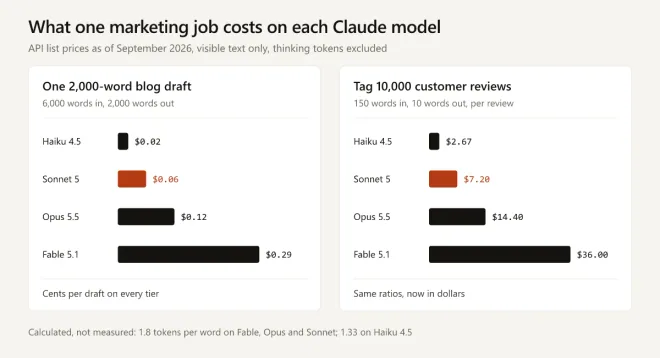
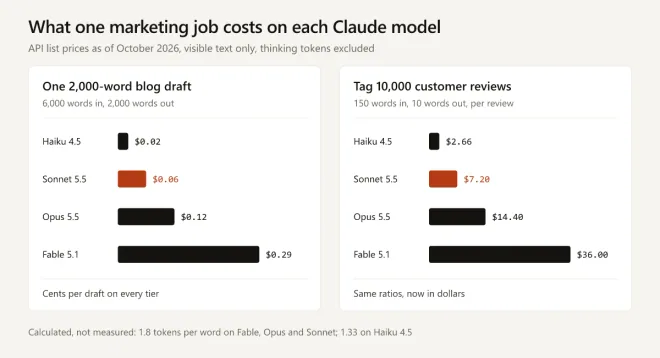
Update Claude Sonnet vs Opus for Sonnet 5.5
Sonnet 5.5 (released 28 September 2026) replaces Sonnet 5 as the current
Sonnet across the cost table, routing rule, FAQs, Claude Code settings and
both diagrams; Sonnet 5 is now noted as a legacy model. The Haiku tagging
figure is corrected to $2.66. The matching LinkedIn draft and the link
sentence in claude-research-vs-web-search follow the update.

Changed region(s): [[0.1818, 0.1229, 0.6061, 0.1536], [0.5758, 0.4916, 0.6061, 0.5223], [0.1212, 0.4916, 0.1515, 0.5223]]

diff --git a/src/content/blog/claude-sonnet-vs-opus.md b/src/content/blog/claude-sonnet-vs-opus.md
@@ -1,44 +1,45 @@
 ---
 title: "Claude Sonnet vs Opus vs Haiku: Costs and When to Use Each"
-description: "A 2,000-word blog draft costs about 6 cents on Sonnet 5 and 12 on Opus 5.5. Compare Claude Sonnet vs Opus vs Haiku on price and specs, with a rule for picking one."
+description: "A 2,000-word draft costs about 6 cents on Sonnet 5.5 and 12 on Opus 5.5. Compare Claude Sonnet vs Opus vs Haiku on price and specs, with a rule for picking one."
 publishDate: 2026-09-26
+updatedDate: 2026-10-03
 category: [AI, Tools]
 img: /assets/stock-4.webp
 img_alt: "Renaissance-style study of an orrery and geometric instruments on a scholar's table, a red thread tracing an orbit"
 faqs:
   - q: "Is Claude Opus better than Sonnet?"
-    a: "Opus 5.5 is the more capable model and Anthropic's recommended starting point for most workloads. As of September 2026 it costs twice as much per uncached token as Sonnet 5 ($4 and $20 against $2 and $10 per million input and output tokens, with cache reads at $0.20 on both), yet on multi-step agentic work it can cost less per finished job. On single-pass writing, thinking at each model's default effort can move the real gap, so set effort explicitly and price a sample of your own jobs."
+    a: "Opus 5.5 is the more capable model and Anthropic's recommended starting point for most workloads, and Anthropic says it remains clearly stronger than Sonnet 5.5 at complex, open-ended work. As of October 2026 it costs twice as much per uncached token as Sonnet 5.5 ($4 and $20 against $2 and $10 per million input and output tokens, with cache reads at $0.20 on both). Per finished job the gap can move either way, since Opus 5.5 cost less per solved coding task than Sonnet 5 in Anthropic's runs while Anthropic says Sonnet 5.5 at lower effort costs less per task than Opus 5.5, so set effort explicitly and price a sample of your own jobs."
   - q: "What is the difference between Claude Haiku and Sonnet?"
-    a: "Haiku 4.5 is the lowest-priced current Claude model at $1 and $5 per million input and output tokens, with a 200K context window and a February 2025 reliable knowledge cutoff. Sonnet 5 costs $2 and $10, has a 1M context window and a January 2026 cutoff. Anthropic positions Haiku for high-volume work with checkable outputs rather than long agent loops."
+    a: "Haiku 4.5 is the lowest-priced current Claude model at $1 and $5 per million input and output tokens, with a 200K context window and a February 2025 reliable knowledge cutoff. Sonnet 5.5 costs $2 and $10, has a 1M context window and a June 2026 reliable knowledge cutoff. Anthropic positions Haiku for high-volume work with checkable outputs rather than long agent loops."
   - q: "Which Claude model is best for writing?"
-    a: "For drafts, emails and rewrites, start with Sonnet 5: Anthropic's model selection matrix lists content creation among its example uses, and Anthropic's models overview rates its latency Fast against Opus 5.5's Moderate. The price gap on a one-off 2,000-word draft is about six cents, so move a draft to Opus 5.5 when it carries figures, citations or a synthesis of many sources, or when Opus drafts need less of your editing."
+    a: "For drafts, emails and rewrites, start with Sonnet 5.5: Anthropic's model selection matrix lists content creation among its example uses, Anthropic's models overview rates its latency Fast against Opus 5.5's Moderate, and its launch post says it writes more clearly than Anthropic's previous generation of models. The price gap on a one-off 2,000-word draft is about six cents, so move a draft to Opus 5.5 when it carries figures, citations or a synthesis of many sources, or when Opus drafts need less of your editing."
   - q: "Which Claude model does Claude Code use by default?"
-    a: "As of September 2026, the default model in Claude Code is Opus 5.5 on Pro, Max, Team, Enterprise and Anthropic API accounts, from version 2.1.280 onward. Switch in a session with /model sonnet, /model haiku or /model fable, or at launch with claude --model followed by the alias."
+    a: "As of October 2026, the default model in Claude Code is Opus 5.5 on Pro, Max, Team, Enterprise and Anthropic API accounts, from version 2.1.280 onward. Switch in a session with /model sonnet (Sonnet 5.5 on the Anthropic API from version 2.1.284), /model haiku or /model fable, or at launch with claude --model followed by the alias."
   - q: "What is the best Claude model?"
-    a: "Claude Fable 5.1 is the most capable model Anthropic offers to all customers, but Anthropic recommends starting most workloads on Opus 5.5 and moving to Fable only when Opus at xhigh or max effort still falls short on demanding work. For marketing work the best Claude model depends on volume and steps: Haiku 4.5 for bulk jobs you can spot-check, Sonnet 5 for single-pass writing and repeated jobs, and Opus 5.5 for multi-step or figure-heavy work."
+    a: "Claude Fable 5.1 is the most capable model Anthropic offers to all customers, but Anthropic recommends starting most workloads on Opus 5.5 and moving to Fable only when Opus at xhigh or max effort still falls short on demanding work. For marketing work the best Claude model depends on volume and steps: Haiku 4.5 for bulk jobs you can spot-check, Sonnet 5.5 for single-pass writing and repeated jobs, and Opus 5.5 for multi-step or figure-heavy work."
 ---
 
-Tagging 10,000 customer reviews by theme costs about **$2.67 on Claude Haiku 4.5, $7.20 on Sonnet 5, $14.40 on Opus 5.5 and $36.00 on Fable 5.1** at Anthropic's API list prices as of September 2026, with 150 words in and 10 out per review at about 1.8 tokens per word (1.33 on Haiku's older tokenizer). One 2,000-word blog draft costs about 6 cents on Sonnet and 12 cents on Opus, so for a single draft the Claude Sonnet vs Opus price gap is six cents.
+Tagging 10,000 customer reviews by theme costs about **$2.66 on Claude Haiku 4.5, $7.20 on Sonnet 5.5, $14.40 on Opus 5.5 and $36.00 on Fable 5.1** at Anthropic's API list prices as of October 2026, with 150 words in and 10 out per review at about 1.8 tokens per word (1.33 on Haiku's older tokenizer). One 2,000-word blog draft costs about 6 cents on Sonnet and 12 cents on Opus, so for a single draft the Claude Sonnet vs Opus price gap is six cents.
 
 Those figures are my arithmetic from Anthropic's [per-token pricing](https://platform.claude.com/docs/en/about-claude/pricing), not measured runs, and they leave out thinking tokens. The cost table further down shows the working for every job.
 
-So the choice turns on two things a price list does not show: how many times a job runs, and how many steps each run takes. Volume multiplies the 2x gap between the tiers. Steps can reverse it: in Anthropic's internal runs of a coding benchmark (a SWE-bench Pro subset), Opus 5.5 came out cheaper per solved task than Sonnet 5.
+So the choice turns on two things a price list does not show: how many times a job runs, and how many steps each run takes. Volume multiplies the 2x gap between the tiers. Steps can reverse it: in Anthropic's internal runs of a coding benchmark (a SWE-bench Pro subset), Opus 5.5 came out cheaper per solved task than Sonnet 5, the model Sonnet 5.5 replaced. Anthropic's cost guide has no Sonnet 5.5 figure for that subset, and the [Sonnet 5.5 launch post](https://www.anthropic.com/claude-sonnet-5-5) says Sonnet 5.5, run at lower effort settings, costs less per task than Opus 5.5.
 
-My routing rule for marketing work follows from those two facts, and it departs from Anthropic's Opus-first default for single-pass writing and for jobs repeated at volume:
+My routing rule for marketing work follows from volume and steps, and it departs from Anthropic's Opus-first default for single-pass writing and for jobs repeated at volume:
 
-**The rule:** Send checkable bulk jobs to Haiku 4.5. Run single-pass writing and jobs repeated at volume on Sonnet 5. Move to Opus 5.5 for multi-step jobs or work whose figures and sources must be right. Try Fable 5.1 only when Opus 5.5 at xhigh or max effort falls short.
+**The rule:** Send checkable bulk jobs to Haiku 4.5. Run single-pass writing and jobs repeated at volume on Sonnet 5.5. Move to Opus 5.5 for multi-step jobs or work whose figures and sources must be right. Try Fable 5.1 only when Opus 5.5 at xhigh or max effort falls short.
 
 If you are still choosing between vendors, [Claude vs ChatGPT](/blog/claude-vs-chatgpt/) covers that decision. This page assumes you have picked Claude and now have to pick a model.
 
-## Claude Models Comparison: Sonnet vs Opus vs Haiku (September 2026)
+## Claude Models Comparison: Sonnet vs Opus vs Haiku (October 2026)
 
-Anthropic's [models overview](https://platform.claude.com/docs/en/models/overview) lists four current models, checked on 26 September 2026. MTok means one million tokens.
+Anthropic's [models overview](https://platform.claude.com/docs/en/models/overview) lists four current models, checked on October 3, 2026. Sonnet 5.5, released on September 28, 2026, replaced Sonnet 5 in that lineup, and Sonnet 5 moved to the page's list of legacy models that are still available. MTok means one million tokens.
 
 | Model | Input / output price per MTok | Context window | Best for |
 |---|---|---|---|
 | Claude Fable 5.1 | $10 / $50 | 1M tokens | Hours-long agent runs and deep research, only after Opus falls short |
 | Claude Opus 5.5 | $4 / $20 | 1M tokens | Multi-step agentic work, research synthesis, anything with figures |
-| Claude Sonnet 5 | $2 / $10 | 1M tokens | Single-pass drafting and rewriting, repeated jobs at volume |
+| Claude Sonnet 5.5 | $2 / $10 | 1M tokens | Single-pass drafting and rewriting, repeated jobs at volume |
 | Claude Haiku 4.5 | $1 / $5 | 200K tokens | Bulk tagging, extraction and sorting you can spot-check |
 
 The "best for" column is my routing, built from Anthropic's [model selection matrix](https://platform.claude.com/docs/en/about-claude/models/choosing-a-model), which says "most workloads start with Claude Opus 5.5". The Sonnet vs Opus section below explains where I follow that default and where I peel off from it.
@@ -47,14 +48,14 @@ In the Claude apps, the Free plan covers Sonnet and Haiku while Opus needs a pai
 
 The rest of the spec sheet, from the same overview page:
 
-| | Fable 5.1 | Opus 5.5 | Sonnet 5 | Haiku 4.5 |
+| | Fable 5.1 | Opus 5.5 | Sonnet 5.5 | Haiku 4.5 |
 |---|---|---|---|---|
 | Latency (Anthropic's label) | Slower | Moderate | Fast | Fastest |
-| Reliable knowledge cutoff | Jun 2026 | Jun 2026 | Jan 2026 | Feb 2025 |
+| Reliable knowledge cutoff | Jun 2026 | Jun 2026 | Jun 2026 | Feb 2025 |
 | Max output | 128K tokens | 128K tokens | 128K tokens | 64K tokens |
 | Thinking | Adaptive, always on | Adaptive, always on | Adaptive | Extended (manual) |
-| Default effort | high | medium | high | Not supported |
-| Retirement, not sooner than | Sep 1, 2027 | Sep 22, 2027 | Jun 30, 2027 | Oct 15, 2026 |
+| Default effort (API) | high | medium | high | Not supported |
+| Retirement, not sooner than | Sep 1, 2027 | Sep 22, 2027 | Sep 28, 2027 | Oct 15, 2026 |
 
 The knowledge cutoff row tells you how recent a topic can be before you have to paste in sources. The thinking row decides how far a request can run above its visible-text cost, since thinking tokens are billed as output (next section).
 
@@ -64,8 +65,8 @@ Stage 3 of [the marketer's AI maturity curve](/blog/marketers-ai-maturity-curve/
 
 The assumptions, so you can swap in your own:
 
-- **Words to tokens.** Anthropic's models overview ([markdown version](https://platform.claude.com/docs/en/models/overview.md)) says 1M tokens is roughly 555,000 words on the current tokenizer, introduced with Claude Opus 4.7, while models before it fit about 750,000 words. That works out to about 1.8 tokens per word and 1.33 tokens per word. The pricing page says Claude 4.7 and later models use the newer tokenizer and Claude Sonnet 4.6 and earlier use the previous one, so Fable 5.1, Opus 5.5 and Sonnet 5 take the 1.8 figure and Haiku 4.5 takes 1.33.
-- **Visible text only.** Anthropic's [thinking documentation](https://platform.claude.com/docs/en/build-with-claude/thinking) says reasoning tokens "are billed as output tokens, even when the thinking text isn't returned to you". None are counted here, on any model, so treat every figure as a floor. Sonnet 5 thinks by default unless you pass `thinking: {type: "disabled"}` ([what's new in Sonnet 5](https://platform.claude.com/docs/en/models/sonnet-5/whats-new-sonnet-5)), while Opus 5.5 returns an error if you try ([what's new in Opus 5.5](https://platform.claude.com/docs/en/models/opus-5-5/whats-new-opus-5-5)) and Fable 5.1 always thinks.
+- **Words to tokens.** Anthropic's models overview ([markdown version](https://platform.claude.com/docs/en/models/overview.md)) says 1M tokens is roughly 555,000 words on the current tokenizer, introduced with Claude Opus 4.7, while models before it fit about 750,000 words. That works out to about 1.8 tokens per word and 1.33 tokens per word. The pricing page says Claude 4.7 and later models use the newer tokenizer and Claude Sonnet 4.6 and earlier use the previous one, so Fable 5.1, Opus 5.5 and Sonnet 5.5 take the 1.8 figure and Haiku 4.5 takes 1.33. Anthropic's [what's new in Sonnet 5.5](https://platform.claude.com/docs/en/models/sonnet-5-5/whats-new-sonnet-5-5) page says Sonnet 5.5's tokenizer "is the same as Claude Sonnet 5's".
+- **Visible text only.** Anthropic's [thinking documentation](https://platform.claude.com/docs/en/build-with-claude/thinking) says reasoning tokens "are billed as output tokens, even when the thinking text isn't returned to you". None are counted here, on any model, so treat every figure as a floor. Sonnet 5.5 thinks by default and, per the same what's new page, returns a 400 error for `thinking: {type: "disabled"}`; its lowest setting, `thinking: {type: "between_tools"}`, is accepted at `high` effort or below and returns only text on a request that uses no tools. Opus 5.5 returns an error if you try to turn thinking off ([what's new in Opus 5.5](https://platform.claude.com/docs/en/models/opus-5-5/whats-new-opus-5-5)) and Fable 5.1 always thinks.
 - **List prices.** No prompt caching, no Batch API discount, global routing. The pricing page adds a 1.1x multiplier for US-only inference on Claude 4.6 and later models.
 - **No long-context premium.** The pricing page says Claude 4.6 and later models bill the full 1M-token window at standard rates, so the large synthesis job pays the same per token as the small draft.
 
@@ -80,27 +81,27 @@ The jobs:
 
 What each one costs, calculated from Anthropic's per-token prices:
 
-| Job | Haiku 4.5 | Sonnet 5 | Opus 5.5 | Fable 5.1 |
+| Job | Haiku 4.5 | Sonnet 5.5 | Opus 5.5 | Fable 5.1 |
 |---|---|---|---|---|
 | One 2,000-word blog draft | $0.02 | $0.06 | $0.12 | $0.29 |
 | Research synthesis of 20 transcripts | $0.18 | $0.48 | $0.95 | $2.39 |
 | Rewrite 1,000 product descriptions | $1.20 | $3.24 | $6.48 | $16.20 |
-| Tag 10,000 customer reviews | $2.67 | $7.20 | $14.40 | $36.00 |
+| Tag 10,000 customer reviews | $2.66 | $7.20 | $14.40 | $36.00 |
 
-The blog draft on Sonnet 5, worked through: 6,000 words x 1.8 = 10,800 input tokens, at $2 per million = $0.0216. Then 2,000 words x 1.8 = 3,600 output tokens, at $10 per million = $0.036. The total is $0.0576, which rounds to $0.06, and every other cell follows the same two lines with that model's prices and tokens-per-word figure.
+The blog draft on Sonnet 5.5, worked through: 6,000 words x 1.8 = 10,800 input tokens, at $2 per million = $0.0216. Then 2,000 words x 1.8 = 3,600 output tokens, at $10 per million = $0.036. The total is $0.0576, which rounds to $0.06, and every other cell follows the same two lines with that model's prices and tokens-per-word figure.
 
-<img src="/assets/blog/claude-sonnet-vs-opus/cost-per-job.webp" alt="Bar chart comparing the cost of one 2,000-word blog draft and of tagging 10,000 customer reviews on Claude Haiku 4.5, Sonnet 5, Opus 5.5 and Fable 5.1 at September 2026 list prices" title="What one marketing job costs on each Claude model" width="1200" height="651" loading="lazy" decoding="async" />
+<img src="/assets/blog/claude-sonnet-vs-opus/cost-per-job.webp" alt="Bar chart comparing the cost of one 2,000-word blog draft and of tagging 10,000 customer reviews on Claude Haiku 4.5, Sonnet 5.5, Opus 5.5 and Fable 5.1 at October 2026 list prices" title="What one marketing job costs on each Claude model" width="1200" height="651" loading="lazy" decoding="async" />
 
 What the table shows:
 
-- **Opus 5.5 costs exactly twice Sonnet 5 on every row.** The per-token prices are 2x apart and the two models share a tokenizer, so without caching the ratio never moves. Only the size of the job changes what 2x means in dollars.
+- **Opus 5.5 costs exactly twice Sonnet 5.5 on every row.** The per-token prices are 2x apart and the two models share a tokenizer, so without caching the ratio never moves. Only the size of the job changes what 2x means in dollars.
 - **Haiku 4.5 lands at about 37% of Sonnet's cost**, lower than its 50% sticker ratio. Its older tokenizer turns the same words into fewer tokens.
 - **Fable 5.1 costs 2.5x Opus 5.5** on every row of this table.
-- **Bulk jobs can run at half price.** The Batch API takes 50% off both input and output tokens in exchange for results within 24 hours, so the review-tagging job on Sonnet 5 drops to $3.60.
+- **Bulk jobs can run at half price.** The Batch API takes 50% off both input and output tokens in exchange for results within 24 hours, so the review-tagging job on Sonnet 5.5 drops to $3.60.
 
 ### Cheaper Moves Than Switching Models
 
-Anthropic's [cost and intelligence guide](https://platform.claude.com/docs/en/about-claude/models/optimizing-for-cost-and-intelligence) sorts cost levers into "free wins" that cut spend without touching quality and tradeoffs such as model choice. Caching pays only when a long prefix repeats across requests, such as an agent loop or a long style guide sent with every draft. The minimum cacheable prompt is 1,024 tokens on Sonnet 5, 512 on Opus 5.5 and 4,096 on Haiku 4.5 ([prompt caching docs](https://platform.claude.com/docs/en/build-with-claude/prompt-caching)), so the 100-word tagging instructions in the table above are too short to cache.
+Anthropic's [cost and intelligence guide](https://platform.claude.com/docs/en/about-claude/models/optimizing-for-cost-and-intelligence) sorts cost levers into "free wins" that cut spend without touching quality and tradeoffs such as model choice. Caching pays only when a long prefix repeats across requests, such as an agent loop or a long style guide sent with every draft. The minimum cacheable prompt is 512 tokens on Sonnet 5.5 and Opus 5.5 and 4,096 on Haiku 4.5 ([prompt caching docs](https://platform.claude.com/docs/en/build-with-claude/prompt-caching)), so the 100-word tagging instructions in the table above, about 180 tokens on Sonnet 5.5 (133 on Haiku 4.5), are too short to cache.
 
 1. **Prompt caching**, where the prefix qualifies. Cache reads cost 10% of the base input price (5% on Opus 5.5, 2.5% on Fable 5.1). In Anthropic's measured agent runs, the guide says caching "cut agent-loop cost by a factor of 2.7 to 5.3" and is "worth more than most model-choice decisions".
 2. **Batch processing** for anything no one is waiting on, at 50% off.
@@ -108,63 +109,67 @@ Anthropic's [cost and intelligence guide](https://platform.claude.com/docs/en/ab
 
 ## Claude Sonnet vs Opus: Where the 2x Price Gap Matters
 
-Per base input and output token, the Claude Sonnet vs Opus comparison is fixed: Opus 5.5 at $4 / $20 against Sonnet 5 at $2 / $10. Cache reads are the exception: Opus 5.5 reads its cache at 5% of its input price, so both models pay $0.20 per MTok for a cache hit.
+Per base input and output token, the Claude Sonnet vs Opus comparison is fixed: Opus 5.5 at $4 / $20 against Sonnet 5.5 at $2 / $10. Cache reads are the exception: Opus 5.5 reads its cache at 5% of its input price, so both models pay $0.20 per MTok for a cache hit.
 
-Sonnet's rate is also settled. The pricing page says the $2 / $10 rate, announced as introductory pricing through August 31, 2026, "is now the standard price", and the scheduled rise to $3 / $15 "will not occur".
+Sonnet's rate is also settled. Anthropic's what's new in Sonnet 5.5 page says the model "has the same prices as Claude Sonnet 5, including prompt caching and batch processing rates", and the pricing page says Sonnet 5's $2 / $10 rate, first announced as introductory pricing through August 31, 2026, "is now the standard price", while the scheduled rise to $3 / $15 "will not occur".
 
 Per finished job, the comparison moves. Anthropic's cost guide tells readers to "compare on cost per completed task, not per token", and publishes its own measurements:
 
 | Benchmark (Anthropic's internal runs) | Model and effort | Score | Cost |
 |---|---|---|---|
-| SWE-bench Pro subset (coding) | Sonnet 5, default | 77.4% | $0.84 per solved task |
+| SWE-bench Pro subset (coding) | Sonnet 5 (previous Sonnet), default | 77.4% | $0.84 per solved task |
 | SWE-bench Pro subset (coding) | Opus 5.5, default (medium) | 92.8% | $0.22 per solved task |
 | SWE-bench Pro subset (coding) | Opus 5.5, low | 87.4% | $0.12 per solved task |
 | SWE-bench Pro subset (coding) | Fable 5.1, default | 92.3% | $1.19 per solved task |
 | SWE-bench Pro subset (coding) | Fable 5.1, low | 88.6% | $0.54 per solved task |
-| DeepResearch Bench II (research) | Sonnet 5 | 56% | $1.20 per task |
+| DeepResearch Bench II (research) | Sonnet 5 (previous Sonnet) | 56% | $1.20 per task |
 | DeepResearch Bench II (research) | Fable 5.1, low | 66% | $4.66 per task |
 
 Anthropic labels these internal results "directional, not guarantees". On the coding benchmark, Opus 5.5, at twice Sonnet 5's token price, cost about a quarter as much per solved task ($0.22 against $0.84), while Fable 5.1 at its default cost more than both ($1.19). Anthropic plots all five coding rows on one chart, with a footnote on problem sets: Sonnet 5 and Fable 5.1 at low effort ran on a 482-problem subset, and Opus 5.5 and Fable 5.1 at its default ran on 478 of those problems. The guide's explanation is that "a more capable model finishes a task with less work: fewer turns, less searching, less re-reading of its own context, and less backtracking."
 
-Cache pricing also shrinks the gap in loops like these. Anthropic priced each request's earlier context in those runs as a cache read, which costs $0.20 per MTok on both Opus 5.5 and Sonnet 5, and the guide says cache reads are "routinely the largest single component of task cost" across its measured runs.
+Cache pricing also shrinks the gap in loops like these. Anthropic priced each request's earlier context in the cost guide's runs as a cache read, which costs $0.20 per MTok on both Opus 5.5 and Sonnet 5, and the guide says cache reads are "routinely the largest single component of task cost" across its measured runs.
 
-A single-pass draft is one request with no turns to cut, so the per-token table above is the starting estimate for it. Sonnet 5 is half the price for the visible text, and the thinking on top depends on the effort each model runs at (Opus 5.5 defaults to medium, Sonnet 5 to high), so set effort explicitly on both before you compare, or turn thinking off on Sonnet 5 for a short rewrite job.
+For Sonnet 5.5, the per-job evidence so far is Anthropic's launch post, which plots cost per task on four other benchmarks (Terminal-Bench 4.0, FrontierCode, CursorBench and AA-Briefcase) and says Sonnet 5.5 "complements Opus 5.5 best when running at lower effort settings, where it costs less per task. At higher settings, it can perform comparably at a similar cost." The same post says "Opus 5.5 remains clearly stronger at complex, open-ended work requiring sustained judgment." So price your own loop on both models before assuming Opus 5.5 costs less per finished job.
+
+A single-pass draft is one request with no turns to cut, so the per-token table above is the starting estimate for it. Sonnet 5.5 is half the price for the visible text, and the thinking on top depends on the effort each model runs at (on the API, Opus 5.5 defaults to medium and Sonnet 5.5 to high), so set effort explicitly on both before you compare, or send `thinking: {type: "between_tools"}` on Sonnet 5.5 for a short rewrite job.
 
 A job that loops (an agent building a script, a research run that reads, searches and re-reads) is where Opus 5.5 can win back its price. On research the cost can climb instead: Fable 5.1 at low effort scored 10 points above Sonnet 5 on DeepResearch Bench II at about four times the cost per task, which the guide puts down to Fable running "a longer research loop over a larger context".
 
 ### Claude Opus vs Sonnet for Writing
 
-Anthropic's selection matrix lists "content creation" among Sonnet 5's example uses, next to code generation and data analysis, and the spec table above gives Sonnet 5 a "Fast" latency label against Opus 5.5's "Moderate". Opus 5.5's matrix examples are multi-hour coding agents, large refactors and computer use.
+Anthropic's selection matrix lists "content creation" among Sonnet 5.5's example uses, next to code generation, data analysis, visual understanding and agentic tool use, and the spec table above gives Sonnet 5.5 a "Fast" latency label against Opus 5.5's "Moderate". Opus 5.5's matrix examples are multi-hour coding agents, large refactors, complex systems engineering, vision-heavy workflows and computer use.
 
 What Anthropic does claim for Opus 5.5 on written work sits in its [prompting guide](https://platform.claude.com/docs/en/build-with-claude/prompt-engineering/prompting-claude-opus-5-5): the model "is much less likely to state an incorrect figure or cite the wrong source", and "the spreadsheets, slides, and documents it produces need less editing before you share them." The guide describes differences from Opus 5 and never mentions Sonnet, so read both claims as the direction Opus moved rather than a ranking of the two tiers.
 
+The Sonnet 5.5 launch post makes a matching claim for the cheaper tier: "Like Opus 5.5, Sonnet 5.5 writes more clearly than our previous generation of models". Anthropic's [Sonnet page](https://www.anthropic.com/claude/sonnet) adds that Sonnet 5.5's "drafts need less cleanup".
+
 One marketer-run test worth reading is Lisa Peyton's [content-marketer showdown](https://lisapeyton.com/claude-4-1-opus-vs-claude-4-5-sonnet-a-real-world-showdown-for-content-marketers/), updated June 2026, which ran one newsletter prompt and the same sources through Opus 4.8, 4.7, 4.6 and Sonnet 4.6. She found that Sonnet 4.6 "wrote fluently and quickly, and for my particular voice rules it needed the most editing", and her verdict was that "there isn't a single winner right now".
 
-Every model she tested predates Sonnet 5 and Opus 5.5, and it is one prompt from one writer, so treat it as a named example of the method rather than a result for today's lineup.
+Every model she tested predates Sonnet 5.5 and Opus 5.5, and it is one prompt from one writer, so treat it as a named example of the method rather than a result for today's lineup.
 
 My writing rule from all of that:
 
-- Draft blog posts, emails and landing page copy on Sonnet 5. The price is not the reason for a one-off draft, since the gap is six cents: if Opus 5.5 drafts need less editing against your own voice rules, draft there instead.
+- Draft blog posts, emails and landing page copy on Sonnet 5.5. The price is not the reason for a one-off draft, since the gap is six cents: if Opus 5.5 drafts need less editing against your own voice rules, draft there instead.
 - Move a draft to Opus 5.5 when it carries figures, citations or a synthesis of many sources, since wrong figures and wrong sources are the failure Anthropic says Opus 5.5 improved on.
-- Keep writing jobs that repeat at volume on Sonnet 5. A run of 1,000 product descriptions costs $3.24 there against $6.48 on Opus 5.5, before the batch discount.
+- Keep writing jobs that repeat at volume on Sonnet 5.5. A run of 1,000 product descriptions costs $3.24 there against $6.48 on Opus 5.5, before the batch discount.
 - Run a voice pass yourself on either tier. No model knows your house rules until you write them down and hand them over.
 
-One prompt habit to revisit on Opus 5.5 is the chain-of-thought pattern in my [ChatGPT prompts for marketing](/blog/chatgpt-prompts-for-marketing/) templates. The prompting guide's section on safeguard refusals says requests that push the model to reproduce its internal reasoning in the response text "can be declined", and tells you to remove prompt instructions that ask it to write out its reasoning. Keep the steps that produce something you want to read, such as a topic list, and cut the ones that only ask it to show its work.
+One prompt habit to revisit on Opus 5.5 and Sonnet 5.5 is the chain-of-thought pattern in my [ChatGPT prompts for marketing](/blog/chatgpt-prompts-for-marketing/) templates. The Opus 5.5 prompting guide's section on safeguard refusals says requests that push the model to reproduce its internal reasoning in the response text "may be declined", and the [Sonnet 5.5 prompting guide](https://platform.claude.com/docs/en/build-with-claude/prompt-engineering/prompting-claude-sonnet-5-5) says instructions to include reasoning in the response "invite `reasoning_extraction` declines". Both guides tell you to remove prompt instructions that ask the model to write out its reasoning. Keep the steps that produce something you want to read, such as a topic list, and cut the ones that only ask it to show its work.
 
 ## Claude Haiku vs Sonnet: When the Cheapest Model Is Enough
 
 The Haiku vs Sonnet decision has more spec differences than the Sonnet vs Opus one, because Haiku 4.5 predates the other three models and their newer tokenizer:
 
-| | Haiku 4.5 | Sonnet 5 |
+| | Haiku 4.5 | Sonnet 5.5 |
 |---|---|---|
 | Price per MTok (input / output) | $1 / $5 | $2 / $10 |
 | Cost of the same text | About 37% of Sonnet, older tokenizer | Baseline |
 | Context window | 200K tokens | 1M tokens |
 | Max output | 64K tokens | 128K tokens |
-| Reliable knowledge cutoff | Feb 2025 | Jan 2026 |
+| Reliable knowledge cutoff | Feb 2025 | Jun 2026 |
 | Thinking | Extended thinking, set manually | Adaptive, on by default |
-| Effort parameter | Not supported | Supported, default high |
-| Anthropic's example uses | Real-time apps, high-volume processing, sub-agent tasks | Code generation, data analysis, content creation |
+| Effort parameter | Not supported | Supported, default high on the API (medium in Claude Code and the Claude apps) |
+| Anthropic's example uses | Real-time apps, high-volume processing, sub-agent tasks | Code generation, data analysis, content creation, visual understanding, agentic tool use |
 
 Anthropic's cost guide draws the line on where Haiku stops. On the GPQA Diamond question set, Haiku 4.5 answered at about a fifth of Opus 5.5's cost per question, with 63% accuracy against 92%, and "fell much further behind on long coding tasks". The guide's summary: "It fits high-volume work with checkable outputs, not long agentic loops."
 
@@ -175,9 +180,9 @@ Marketing jobs where a person can spot-check a sample against a rule suit Haiku 
 - Normalising messy job titles in a lead list
 - First-pass sorting of inbound requests before a person reads them
 
-Keep Haiku away from anything that depends on events after February 2025 without sources in the prompt, from long agent loops, and from final copy. If a hand-checked sample of 50 Haiku outputs shows more errors than you will accept, rerun the same sample on Sonnet 5 before changing the whole job.
+Keep Haiku away from anything that depends on events after February 2025 without sources in the prompt, from long agent loops, and from final copy. If a hand-checked sample of 50 Haiku outputs shows more errors than you will accept, rerun the same sample on Sonnet 5.5 before changing the whole job.
 
-Haiku 4.5 is listed as active on Anthropic's [model deprecations page](https://platform.claude.com/docs/en/about-claude/model-deprecations), with retirement "not sooner than October 15, 2026", and Anthropic commits to at least 60 days' notice before retiring a publicly released model. Pin the model ID in any recurring job and check that page before you build on it.
+Haiku 4.5 is listed as active on Anthropic's [model deprecations page](https://platform.claude.com/docs/en/about-claude/model-deprecations), with retirement "not sooner than October 15, 2026", and Anthropic commits to at least 60 days' notice before retiring a publicly released model. Pin the model ID in any recurring job and check that page before you build on it. The Sonnet 5.5 launch post also says Claude Haiku 5.5 "will join the Claude 5.5 family in the coming weeks"; until Anthropic publishes its price and specs, every Haiku figure on this page is for Haiku 4.5.
 
 ## Claude Fable 5.1: The Tier Above Opus
 
@@ -187,38 +192,38 @@ Anthropic's own advice is to reach it through Opus: start on Opus 5.5, and if "e
 
 Against Opus 5.5, the measured numbers argue for restraint. On the SWE-bench Pro subset, Opus 5.5 at its default matched Fable 5.1 at its default "for about a fifth of the cost per solved task ($0.22 against $1.19)".
 
-Against Sonnet 5 the result flips: Fable 5.1 at low effort solved 88.6% for $0.54 per solved task, which the guide sums up as "11 more points for 35% less per solved task". On research, the guide concludes that "Fable 5.1 earns its price only at `low`" effort.
+Against Sonnet 5, the result flips: Fable 5.1 at low effort solved 88.6% for $0.54 per solved task, which the guide sums up as "11 more points for 35% less per solved task". On research, the guide concludes that "Fable 5.1 earns its price only at `low`" effort.
 
 Claude Mythos 5.1 shares Fable 5.1's capabilities and prices but is open only to Project Glasswing participants, so for everyone else Fable 5.1 is the top of the ladder.
 
 ## Which Claude Model Should You Use for Marketing Work?
 
-Hand checkable bulk jobs to Haiku 4.5, single-pass writing and repeated jobs to Sonnet 5, and multi-step or figure-heavy jobs to Opus 5.5. Anthropic's escalation order for when output is not good enough: "If you lowered effort, restore it; otherwise try the next tier up at `low` effort".
+Hand checkable bulk jobs to Haiku 4.5, single-pass writing and repeated jobs to Sonnet 5.5, and multi-step or figure-heavy jobs to Opus 5.5. Anthropic's escalation order for when output is not good enough: "If you lowered effort, restore it; otherwise try the next tier up at `low` effort".
 
 | Marketing job | Start on | Move up when | Why |
 |---|---|---|---|
-| Blog posts, emails, landing page drafts | Sonnet 5 | The draft carries figures or cites sources, or Opus drafts need less of your editing: Opus 5.5 | Content creation sits in Sonnet 5's row of Anthropic's matrix |
-| Rewriting product descriptions or ad variants at volume | Sonnet 5, through the Batch API | Spot-checks keep failing: Opus 5.5 at low effort | One pass per item, and the batch discount cuts a 1,000-item Sonnet 5 run to $1.62 |
-| Tagging reviews, tickets and survey answers | Haiku 4.5 | A hand-checked sample misses your error bar: Sonnet 5 | "Checkable outputs" is Anthropic's own description of where Haiku fits |
-| Keyword clustering and content briefs, the first steps of [an AI SEO strategy](/blog/ai-seo-strategy/) | Sonnet 5 | Clusters span thousands of keywords and many sources: Opus 5.5 | Mostly single-pass structuring |
+| Blog posts, emails, landing page drafts | Sonnet 5.5 | The draft carries figures or cites sources, or Opus drafts need less of your editing: Opus 5.5 | Content creation sits in Sonnet 5.5's row of Anthropic's matrix |
+| Rewriting product descriptions or ad variants at volume | Sonnet 5.5, through the Batch API | Spot-checks keep failing: Opus 5.5 at low effort | One pass per item, and the batch discount cuts a 1,000-item Sonnet 5.5 run to $1.62 |
+| Tagging reviews, tickets and survey answers | Haiku 4.5 | A hand-checked sample misses your error bar: Sonnet 5.5 | "Checkable outputs" is Anthropic's own description of where Haiku fits |
+| Keyword clustering and content briefs, the first steps of [an AI SEO strategy](/blog/ai-seo-strategy/) | Sonnet 5.5 | Clusters span thousands of keywords and many sources: Opus 5.5 | Mostly single-pass structuring |
 | Research synthesis across transcripts, reports and competitor pages | Opus 5.5 | Hours-long multi-source research still misses: Fable 5.1 at low effort | Figures and sources must be right |
 | Competitive analysis carried through to a finished deck | Opus 5.5 | Output needs heavy rework: Fable 5.1 | Anthropic's Fable examples name the finished deck |
-| Building scripts, tools and pages in Claude Code | Opus 5.5 (Claude Code's default) | Long autonomous tasks stall: Fable 5.1 | $0.22 per solved coding task at default in Anthropic's runs, against $0.84 for Sonnet 5 |
+| Building scripts, tools and pages in Claude Code | Opus 5.5 (Claude Code's default) | Long autonomous tasks stall: Fable 5.1 | Long builds are open-ended work, where Anthropic rates Opus 5.5 above Sonnet 5.5 |
 | Codebase search and exploration subagents | Haiku 4.5 | Explorations miss files you know exist: inherit the main model | Claude Code's docs suggest Haiku to control subagent costs |
 
-<img src="/assets/blog/claude-sonnet-vs-opus/model-routing.webp" alt="Decision flow for choosing a Claude model: bulk checkable jobs other than writing go to Haiku 4.5, multi-step or figure-heavy jobs go to Opus 5.5 and then to Fable 5.1 if Opus at xhigh or max effort falls short, and single-pass drafts and rewrites go to Sonnet 5" title="Which Claude model for this marketing job" width="1200" height="583" loading="lazy" decoding="async" />
+<img src="/assets/blog/claude-sonnet-vs-opus/model-routing.webp" alt="Decision flow for choosing a Claude model: bulk checkable jobs other than writing go to Haiku 4.5, multi-step or figure-heavy jobs go to Opus 5.5 and then to Fable 5.1 if Opus at xhigh or max effort falls short, and single-pass drafts and rewrites go to Sonnet 5.5" title="Which Claude model for this marketing job" width="1200" height="583" loading="lazy" decoding="async" />
 
 ## Claude Code Model Settings: Default, /model and Subagents
 
-I built this site, its nine free tools and its research scripts (a Search Console CLI, a Semrush keyword CLI and an IndexNow pusher) with Claude Code. Model choice there works differently from the API: the tool picks a default for you, and subagents can run on a different tier from the main session. Everything below comes from Anthropic's [Claude Code model configuration docs](https://code.claude.com/docs/en/model-config) as of September 2026.
+I built this site, its nine free tools and its research scripts (a Search Console CLI, a Semrush keyword CLI and an IndexNow pusher) with Claude Code. Model choice there works differently from the API: the tool picks a default for you, and subagents can run on a different tier from the main session. Everything below comes from Anthropic's [Claude Code model configuration docs](https://code.claude.com/docs/en/model-config) as of October 2026.
 
-**The default.** The `default` setting resolves to Opus 5.5 on Pro, Max, Team, Enterprise and Anthropic API accounts, and on Amazon Bedrock, Google Cloud's Agent Platform and Claude Platform on AWS. Microsoft Foundry defaults to Sonnet 4.5. Opus 5.5 needs Claude Code v2.1.280 or later, and before that version Pro and Team Standard accounts defaulted to Sonnet 5, so run `claude update` if your session header shows an older model.
+**The default.** The `default` setting resolves to Opus 5.5 on Pro, Max, Team, Enterprise and Anthropic API accounts, and on Amazon Bedrock, Google Cloud's Agent Platform and Claude Platform on AWS. Microsoft Foundry defaults to Sonnet 4.5. Opus 5.5 needs Claude Code v2.1.280 or later, and before that version Pro and Team Standard accounts defaulted to Sonnet 5, so run `claude update` if your session header shows an older model. Sonnet 5.5 needs v2.1.284 or later.
 
 **The aliases:**
 
 | Alias | What it selects |
 |---|---|
-| `sonnet` | Latest Sonnet (Sonnet 5 on the Anthropic API) |
+| `sonnet` | Latest Sonnet (Sonnet 5.5 on the Anthropic API) |
 | `opus` | Latest Opus (Opus 5.5 on the Anthropic API) |
 | `haiku` | Haiku, for simple tasks |
 | `fable` | Fable 5.1, never the default on any plan |
@@ -235,7 +240,7 @@ I built this site, its nine free tools and its research scripts (a Search Consol
 
 In the VS Code extension, click the model name at the bottom of the prompt box instead; on models with effort levels it also shows an Effort row, and [my side-by-side of the VS Code extension and the terminal CLI](/blog/claude-code-in-vs-code-vs-terminal/) shows how any level except `max` is saved per model in the settings file both surfaces read.
 
-**Effort.** `/effort` sets how much the model reasons, starting from each model's default in the spec table above. The docs spell out the bill: "You are charged for all thinking tokens generated, even when collapsed or redacted". They also say the effort scale "is calibrated per model, so the same level name does not represent the same underlying value across models", which is one more reason to price a sample rather than compare settings by name.
+**Effort.** `/effort` sets how much the model reasons. Claude Code starts Opus 5.5 and Sonnet 5.5 at `medium` and Fable 5.1 at `high`, so Sonnet 5.5 begins one level below its API default in the spec table above. The docs spell out the bill: "You are charged for all thinking tokens generated, even when collapsed or redacted". They also say the effort scale "is calibrated per model, so the same level name does not represent the same underlying value across models", which is one more reason to price a sample rather than compare settings by name.
 
 **Subagents.** A custom subagent's definition can set `model:` to `sonnet`, `opus`, `haiku`, `fable`, a full model ID or `inherit`. Anthropic's [subagent docs](https://code.claude.com/docs/en/sub-agents) list "routing tasks to faster, cheaper models like Haiku" as one way subagents control costs.
 
@@ -245,6 +250,6 @@ The full list of session commands, including `/model`, `/effort` and `/status`, 
 
 ## Claude Sonnet vs Opus: Price the Job Before You Pick
 
-The Claude Sonnet vs Opus decision gets easier once each job has a number on it. Take one recurring marketing job, write down its words in and words out, and price it on Sonnet 5 and Opus 5.5 with the 1.8 tokens-per-word figure above.
+The Claude Sonnet vs Opus decision gets easier once each job has a number on it. Take one recurring marketing job, write down its words in and words out, and price it on Sonnet 5.5 and Opus 5.5 with the 1.8 tokens-per-word figure above.
 
-If it runs in a single pass, start on Sonnet 5. If it loops through many steps or ships figures, run a sample on both at a fixed effort level and keep the model with the lower cost per finished job.
+If it runs in a single pass, start on Sonnet 5.5. If it loops through many steps or ships figures, run a sample on both at a fixed effort level and keep the model with the lower cost per finished job.

diff --git a/LINKEDIN_POSTS.md b/LINKEDIN_POSTS.md
@@ -1581,19 +1581,19 @@ Which of these would you actually run for your next launch?
 **Image prompt (Nano Banana):**
 > Renaissance-style still life, warm paper background #f6f4ef, a merchant's brass balance scale on a wooden bench with four stacks of coins of rising height laid out in a row beside it, from a small stack to a tall one, a single vermilion red ribbon tied around the second stack, muted earth tones, one red accent only, no text. 1200x628 aspect ratio.
 
-$2.67 on Haiku 4.5. $36.00 on Fable 5.1. That is what tagging 10,000 customer reviews costs at Anthropic's September 2026 list prices, by my arithmetic.
+$2.66 on Haiku 4.5. $36.00 on Fable 5.1. That is what tagging 10,000 customer reviews costs at Anthropic's October 2026 list prices, by my arithmetic.
 
 I build with Claude Code, so I priced four marketing jobs on each Claude model instead of guessing. The figures are calculated from per-token prices, not measured runs, and they leave out thinking tokens, so read them as floors.
 
 What came out of it:
 
-- Opus 5.5 ($4 / $20 per million tokens) costs exactly twice Sonnet 5 ($2 / $10) on every job. A 2,000-word blog draft is about 6 cents on Sonnet and 12 on Opus.
+- Opus 5.5 ($4 / $20 per million tokens) costs exactly twice Sonnet 5.5 ($2 / $10) on every job. A 2,000-word blog draft is about 6 cents on Sonnet and 12 on Opus.
 - Haiku 4.5 lands at about 37% of Sonnet's cost, below its 50% sticker ratio, because its older tokenizer turns the same words into fewer tokens.
 - Per finished job the order can flip. In Anthropic's internal runs on a SWE-bench Pro subset, Opus 5.5 cost $0.22 per solved task against $0.84 for Sonnet 5.
-- The Batch API takes 50% off, so the review-tagging job on Sonnet 5 drops to $3.60.
+- The Batch API takes 50% off, so the review-tagging job on Sonnet 5.5 drops to $3.60.
 - Claude Code defaults to Opus 5.5 from v2.1.280. Switch with /model sonnet or /model haiku.
 
-My routing rule: checkable bulk jobs to Haiku 4.5, single-pass writing and jobs repeated at volume to Sonnet 5, multi-step or figure-heavy work to Opus 5.5. Fable 5.1 only when Opus at xhigh or max effort falls short.
+My routing rule: checkable bulk jobs to Haiku 4.5, single-pass writing and jobs repeated at volume to Sonnet 5.5, multi-step or figure-heavy work to Opus 5.5. Fable 5.1 only when Opus at xhigh or max effort falls short.
 
 Which model are your bulk jobs running on right now, and have you priced one?
 

diff --git a/src/content/blog/claude-research-vs-web-search.md b/src/content/blog/claude-research-vs-web-search.md
@@ -115,7 +115,7 @@ The effort levels, in Anthropic's words:
 
 Each step up has a price: "Higher effort means more thorough responses, but they take longer and use more tokens, so you'll reach your usage limits faster."
 
-On those four always-thinking models, Research vs extended thinking becomes Research vs a higher effort level. Pick Research when the answer needs sources Claude does not have yet, and raise effort when the sources are already in the chat. Anthropic also backs running both, since combining them "allows Claude to both plan its approach thoughtfully and execute comprehensive information gathering". To compare Sonnet 5 and Opus 5.5 by job and price, see [the Sonnet vs Opus price-per-job comparison](/blog/claude-sonnet-vs-opus/).
+On those four always-thinking models, Research vs extended thinking becomes Research vs a higher effort level. Pick Research when the answer needs sources Claude does not have yet, and raise effort when the sources are already in the chat. Anthropic also backs running both, since combining them "allows Claude to both plan its approach thoughtfully and execute comprehensive information gathering". To compare Sonnet 5.5 and Opus 5.5 by job and price, see [the Sonnet vs Opus price-per-job comparison](/blog/claude-sonnet-vs-opus/).
 
 ## Is Claude Research Free? Plans as of October 2026
 
